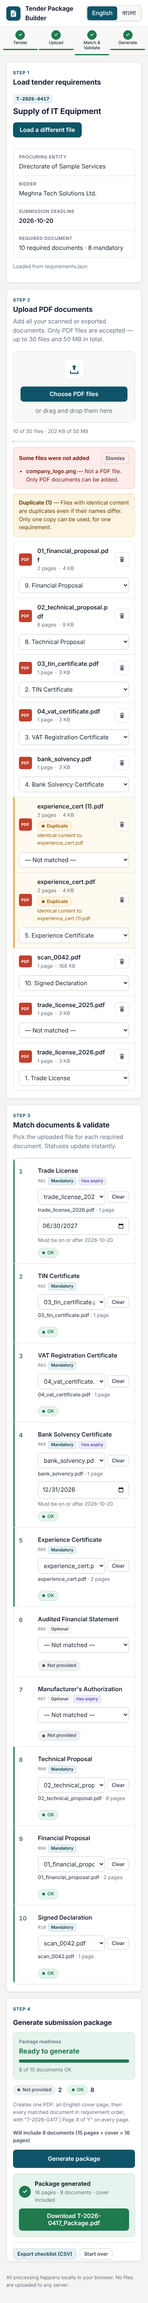
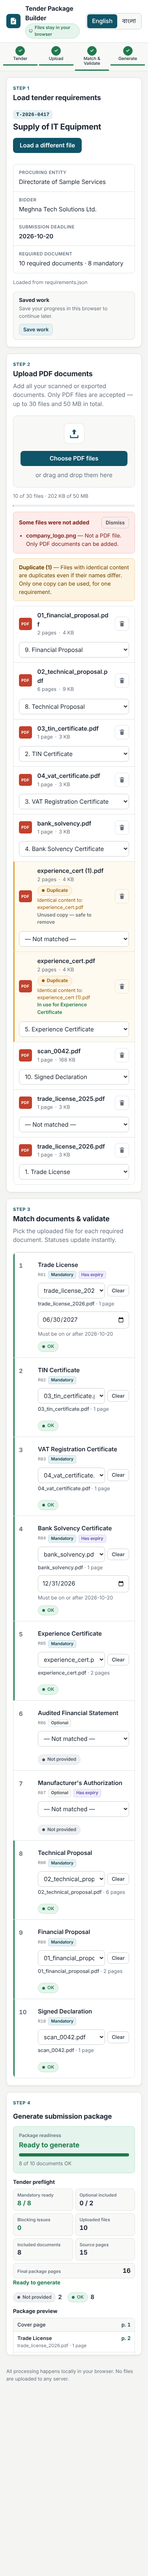
Polish submission workflow
- Score match suggestions against Bangla titles as well
- Retake official sample screenshots, including index and seal
- Document preflight, index, Bangla PDF text, saved work and seal
- Wait for the malformed JSON alert in the browser test

AI Prompt: Finalize the Tender Document Package Builder bonuses: refine auto-match, regenerate official-sample screenshots for the new preflight, index, Bangla index and seal features, and update the README accurately without changing the official output package.

diff --git a/src/lib/suggest.js b/src/lib/suggest.js
@@ -17,16 +17,21 @@ function tokenMatch(a, b) {
   return min >= 3 && (a.startsWith(b) || b.startsWith(a))
 }
 
-function score(fileName, req) {
-  const ft = tokens(fileName)
-  if (!ft.length) return 0
-  const rt = tokens(req.title_en).concat(tokens(req.id))
-  const titleTokens = tokens(req.title_en)
+function scoreTitle(ft, title, id) {
+  const titleTokens = tokens(title)
   if (!titleTokens.length) return 0
+  const rt = titleTokens.concat(tokens(id))
   const hits = titleTokens.filter((t) => ft.some((f) => tokenMatch(f, t))).length
   const fileHits = ft.filter((f) => rt.some((t) => tokenMatch(f, t))).length
   // Balance coverage of the title with how much of the filename is explained.
   return (hits / titleTokens.length) * 0.6 + (fileHits / ft.length) * 0.4
+}
+
+// Scores a filename against both the English and Bangla titles and keeps the better one.
+function score(fileName, req) {
+  const ft = tokens(fileName)
+  if (!ft.length) return 0
+  return Math.max(scoreTitle(ft, req.title_en, req.id), scoreTitle(ft, req.title_bn, req.id))
 }
 
 // Returns { [reqId]: fileId } for unmatched requirements with one clear best unmatched file.

diff --git a/README.md b/README.md
@@ -21,7 +21,7 @@ Requires Node.js 20+.
 npm install
 npm run dev        # http://localhost:5173
 npm run build      # production build in dist/
-npm test           # logic + PDF unit tests on generated test fixtures (needs pdftotext from poppler-utils)
+npm test           # logic + PDF unit tests on generated test fixtures, writing only to the OS temp dir (needs poppler-utils)
 ```
 
 Optional browser test: run `npm run dev`, then `node tests/e2e.cjs` (requires Playwright).
@@ -50,10 +50,17 @@ Optional browser test: run `npm run dev`, then `node tests/e2e.cjs` (requires Pl
 
 ## Completed bonus features
 
-- **A: Auto-match suggestions.** Suggestions come from comparing file names with requirement titles. They are shown per requirement with an "Accept" button, plus an "Accept all" option. Suggestions are never applied automatically. When files with different content tie for the same requirement, nothing is suggested.
-- **B: Bad PDF handling.** Damaged, password-protected and unreadable PDFs are rejected with a clear message instead of crashing the app.
-- **C: CSV checklist export.** The export has the columns `document, file name, pages, expiry date, status` and is UTF-8 with a BOM so Excel opens it correctly.
-- The cover page lists the page range of each document. This is not a separate index page (bonus D was not implemented).
+- **Auto-match suggestions.** File names are normalised: case, spaces, underscores, hyphens, punctuation, `.pdf`, pure numbers and common noise words like "copy" or "scan" are ignored. They are then compared with each requirement's `title_en` and `title_bn`. A requirement only gets a suggestion when one file is the clear best match above a threshold; if files with different content tie, nothing is suggested. Suggestions show as "Suggested: …" with an Accept button and an "Accept all" option, and are never applied automatically.
+- **Bad PDF handling.** Damaged, unreadable and password-protected PDFs are rejected with a message in English or Bangla. A file is only added after it has been parsed and its pages test-copied, so a failed file never partly enters the app, already-uploaded files are unaffected, and generation never uses an unreadable file.
+- **CSV checklist export.** It exports the current state with the columns `document, file name, pages, expiry date, status`, as UTF-8 with a BOM so Excel shows Bangla correctly.
+- **Index page (optional).** A toggle adds an index page after the cover, listing every included document with the page it starts on. Start pages come from each document's real page count, and adding the index shifts every later page by one. The cover, the index and every document page all carry `<tender_id> | Page X of Y`. For the official sample with the index on, the package is 17 pages: 1 cover, 1 index and 15 source pages.
+- **Bangla text in the PDF.** When the UI is in বাংলা, the index page shows the heading, column labels and every document title in Bangla (`title_bn`). The app bundles Noto Sans Bengali (SIL OFL, see `src/assets/fonts/OFL.txt`) and loads it from the app itself, never from an external server. pdf-lib's own text engine shapes some Bengali conjuncts incorrectly (for example প্র and ট্রে), so the browser shapes the Bangla text with this font and the result is embedded as a high-resolution image. That makes the Bangla display correctly, but it can't be selected or searched as text. The cover stays in English with the required fields.
+- **Save and reopen.** "Save work" stores the requirements, the uploaded PDF bytes, matches, expiry dates, language and the index setting in the browser's IndexedDB, on this device only. "Reopen saved work" restores it and re-checks every stored file's SHA-256, so duplicate detection stays valid. A file that is missing or changed is reported and its match is cleared. "Clear saved work" deletes everything stored.
+- **Seal / signature.** Upload a PNG (anything else is rejected), preview it, enter the final page numbers it should go on (for example `1, 16` or `3-5`; checked against the current final page count and listed before you generate), and pick a corner (bottom-right, bottom-left, top-right or top-left) and a size. The seal keeps its aspect ratio, stays inside the page and above the footer, follows page rotation, and goes only on the chosen pages. The original files are never changed.
+- **Tender preflight and package preview.** These read the same status engine. The preflight shows mandatory documents ready, optional documents included, blocking issues, uploaded files, included documents, source pages and the predicted final page count, plus "Ready to generate" or "Action required". Each blocking issue is listed as "Document — Status"; clicking it scrolls to and focuses that requirement. The package preview lists the cover, the index (if on) and each document in final order with its file name, page count and page range.
+- **Package ready summary.** It shows the file name, the number of included documents, the total pages and the validation result, with Download and "Preview PDF" buttons. Preview opens the PDF from a local blob URL in a new tab.
+- **Trust indicator.** A "Files stay in your browser" / "ফাইল আপনার ব্রাউজারেই থাকে" badge in the header. This is accurate because there is no backend and nothing is uploaded.
+- Not implemented: AI Help.
 
 ## Output
 
@@ -75,13 +82,16 @@ Optional browser test: run `npm run dev`, then `node tests/e2e.cjs` (requires Pl
   In the same run, `company_logo.png` was rejected as a non-PDF file. `experience_cert.pdf` and `experience_cert (1).pdf` were flagged as exact-content duplicates. `trade_license_2025.pdf` (expiry 2025-06-30) showed as Expired before it was replaced.
 
   The package has 16 pages: 1 cover page and 15 source pages. Every page carries `T-2026-0417 | Page X of 16`. Every source page was checked against the original file by rendering and comparing pixels. All pages are present, in the order above, unchanged above the footer strip. The footer sits in the blank bottom margin; on the scanned declaration, only the paper background is behind it.
-- `screenshots/` holds screenshots of the official sample pack: statuses with blocking issues (`statuses-blocking.png`), the resolved ready state (`statuses-en.png`), Bangla (`statuses-bn.png`), mobile (`mobile.png`), and after generation (`generated-en.png`).
+- The committed package is the standard mode, with the index off and no seal, which is why it has 16 pages.
+- `screenshots/` holds screenshots of the official sample pack: statuses with blocking issues (`statuses-blocking.png`), the resolved ready state (`statuses-en.png`), Bangla (`statuses-bn.png`), mobile (`mobile.png`), after generation (`generated-en.png`), a Bangla run with the index on (`generated-index-bn.png`), and a seal applied to pages 1 and 16 (`seal.png`).
 
 ## Known issues
 
 - PDFs encrypted with only an owner password are treated as password-protected and rejected, because pdf-lib cannot decrypt them.
 - The cover uses the standard Helvetica font, which only covers Latin characters. Any other characters in English tender fields are replaced with `?` on the cover; the web UI shows them correctly.
 - The date picker's display format follows the browser's locale. Values are always stored and compared as `YYYY-MM-DD`.
+- Bangla text on the index page is embedded as an image (see above), so it can't be selected or searched as text.
+- Saved work lives in this browser's IndexedDB only. Clearing site data removes it, and it doesn't sync between devices.
 
 ## AI tools used
 
